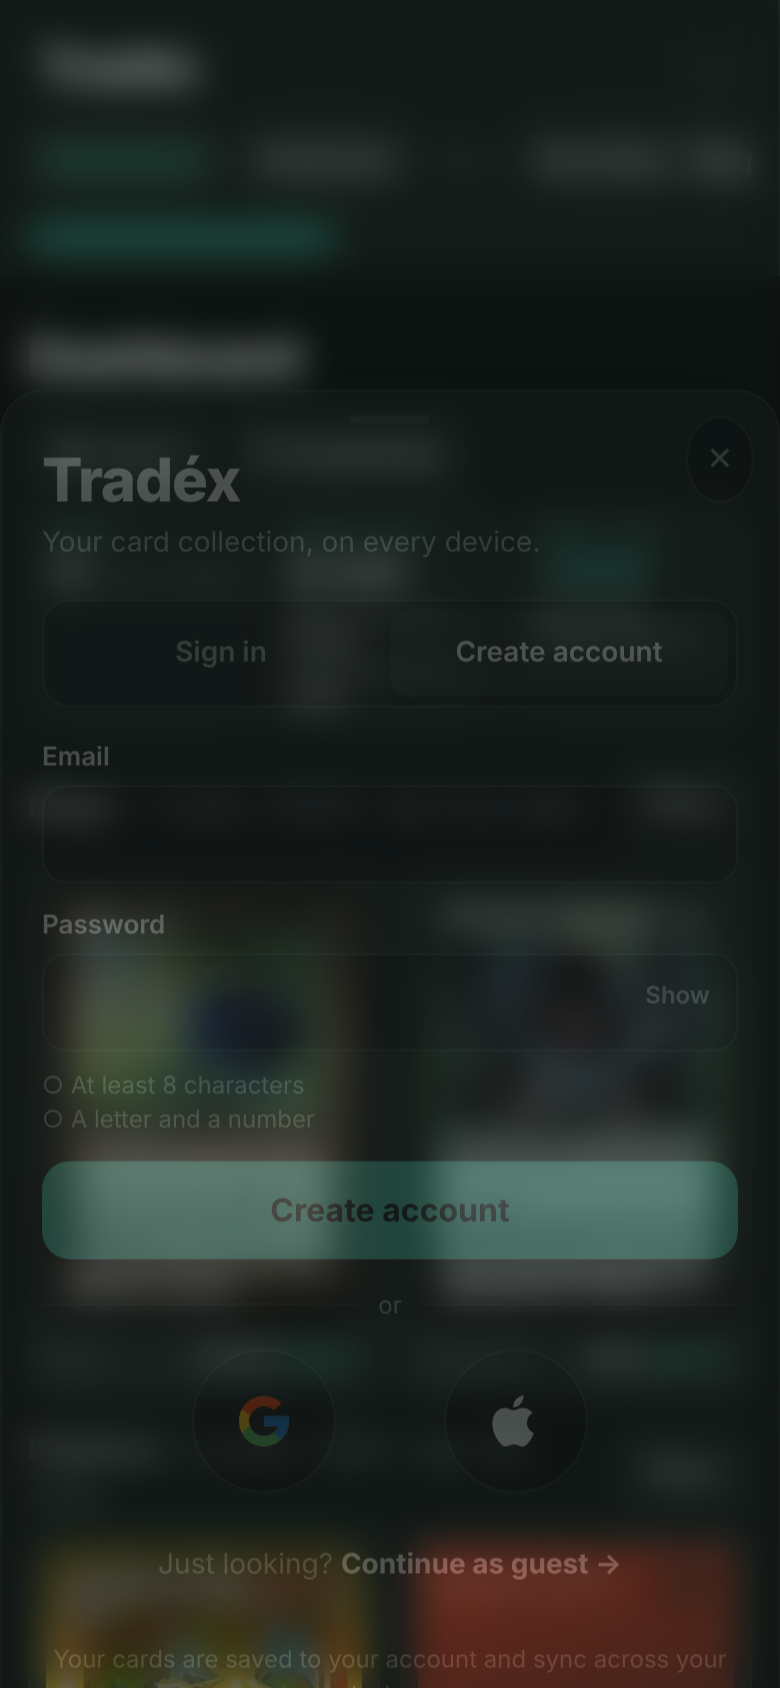
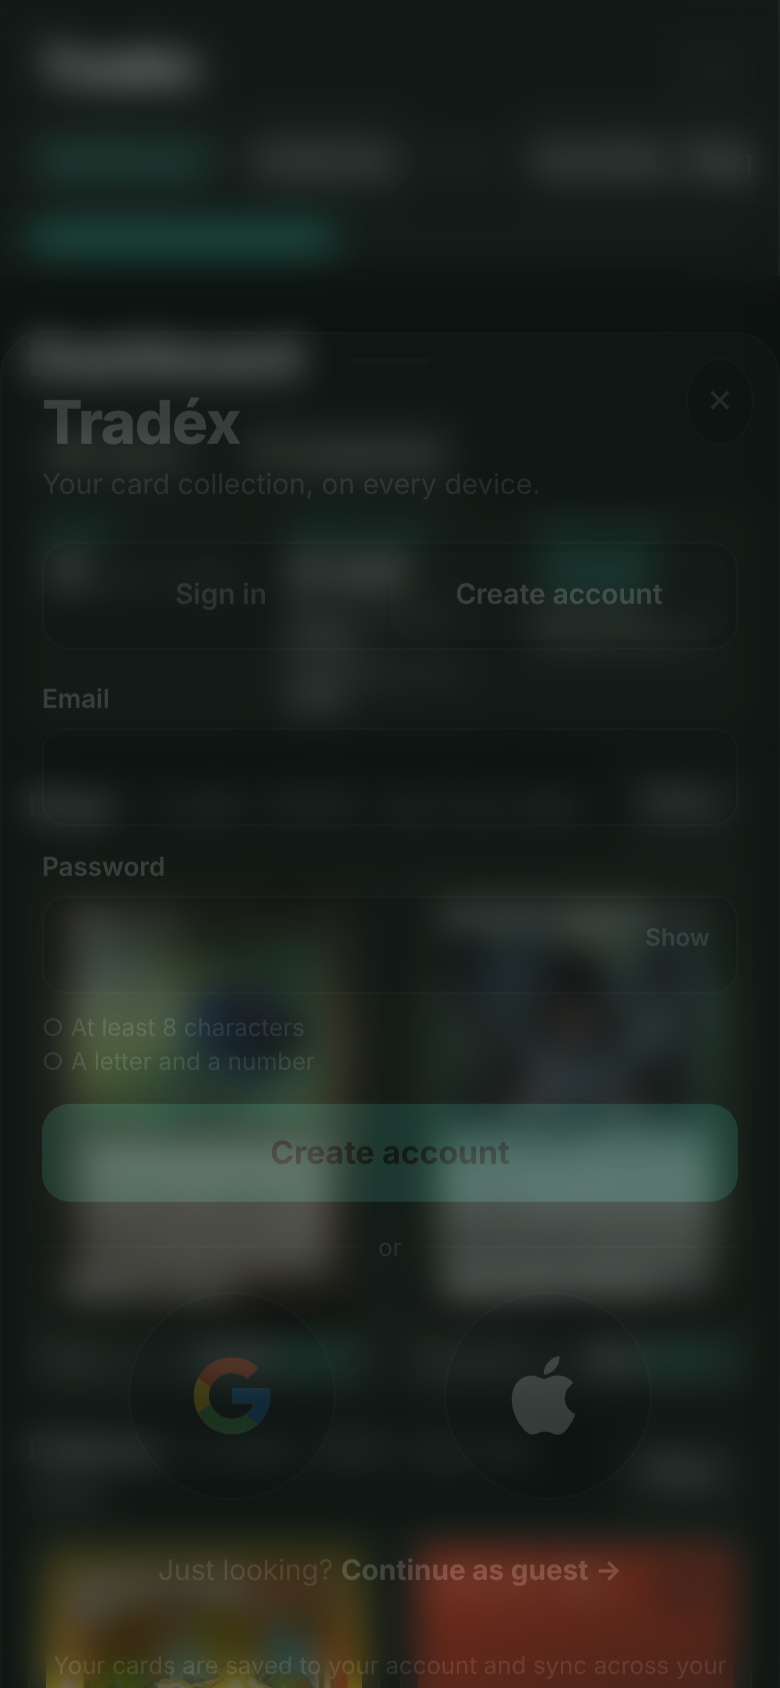
Make the Google and Apple buttons much bigger
Claude-Session: https://claude.ai/code/session_01K6ofJxh6QarDQ2gKnJ83gJ

diff --git a/js/account.js b/js/account.js
@@ -130,10 +130,10 @@ const css=`#txa{position:fixed;inset:0;z-index:100000;display:flex;align-items:c
 #txa .go:disabled{opacity:.7;cursor:wait}
 #txa .go2{width:100%;padding:12px;border-radius:14px;border:1px solid var(--line);background:var(--bg);color:inherit;font-family:inherit;font-weight:600;font-size:15px;cursor:pointer;margin:8px 0 0;display:flex;align-items:center;justify-content:center;gap:10px}
 #txa .go2 svg{width:18px;height:18px}
-#txa .oauth{display:flex;justify-content:center;gap:54px;margin:6px 0 4px}
-#txa .circ{width:72px;height:72px;border-radius:50%;border:1px solid var(--line);background:var(--bg);color:inherit;display:grid;place-items:center;padding:0;margin:0;cursor:pointer;transition:transform .15s,border-color .15s}
+#txa .oauth{display:flex;justify-content:center;gap:54px;margin:8px 0 6px}
+#txa .circ{width:104px;height:104px;border-radius:50%;border:1px solid var(--line);background:var(--bg);color:inherit;display:grid;place-items:center;padding:0;margin:0;cursor:pointer;transition:transform .15s,border-color .15s}
 #txa .circ:hover{border-color:var(--acc);transform:translateY(-1px)}#txa .circ:focus-visible{outline:none;box-shadow:0 0 0 3px color-mix(in srgb,var(--acc) 35%,transparent)}
-#txa .circ svg{width:30px;height:30px}
+#txa .circ svg{width:46px;height:46px}
 #txv{position:fixed;left:50%;bottom:calc(16px + env(safe-area-inset-bottom,0px));transform:translateX(-50%);z-index:9000;display:flex;align-items:center;gap:10px;max-width:calc(100% - 24px);box-sizing:border-box;
  padding:10px 10px 10px 16px;border-radius:14px;background:var(--panel);border:1px solid var(--line);color:var(--ink);font-size:14px;box-shadow:0 10px 30px rgba(0,0,0,.35)}
 @media(max-width:520px){#txv{width:calc(100% - 24px);font-size:13px}}#txv span{overflow-wrap:anywhere}
